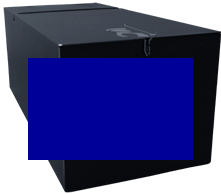
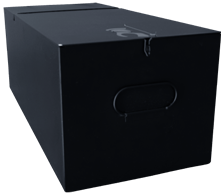
nuevas correcciones
Se cambian las imágenes de las cajas on y off, se agrega nueva sección.

diff --git a/css/app.css b/css/app.css
@@ -151,7 +151,15 @@ body{
 	width: 100%;
 	height: 76px;
 	background-color: #000;
+  padding: 0 !important;
 	/*padding-top: 11px;*/
+}
+
+#menu-titulo{
+  font-weight: bold;
+  color: #FFF;
+  margin-top: 27px;
+  letter-spacing: 10px;
 }
 
 #menu-contactanos{
@@ -368,6 +376,13 @@ body{
 
 /* galeria de imagenes
 -------------------------------------------------------------- */
+#galeriaimagenes{
+  margin-bottom: 50px;
+}
+
+#galeriaimagenes .siguiente{
+  margin-top: 110px;
+}
 
 .galeriaimagenes{
   margin-top: 50px;
@@ -396,39 +411,64 @@ body{
 }
 .planes-facilidades{
   margin-top: 75px;
-    border: solid 1px #FFF;
-    padding: 20px;
-    font-size: 14px;
-    letter-spacing: 3px;
-    color: #FFF;
+  border: solid 1px #FFF;
+  padding: 20px;
+  font-size: 14px;
+  letter-spacing: 3px;
+  color: #FFF;
 }
 
-/* mision vision
+/* nosotros
 -------------------------------------------------------------- */
 
-.misionvision{
+#nosotros{
   padding-top: 50px;
   background-color: #FFF;
   margin-top: 10px;
+  margin-bottom: 50px;
 }
 
-#misionvision .titulo{
-  margin-top: 30px;
-  font-size: 21px;
+#nosotros .titulo{
+  font-weight: bold;
+  font-size: 20px;
+  margin-bottom: 20px;
+}
+
+#nosotros .contenido{
+  font-size: 14px !important;
+  font-weight: bold !important;
+}
+
+.titulo-preguntasfrecuentes{
+  margin-top: 75px;
+  border: solid 1px #000;
+  padding: 20px;
+  font-size: 14px;
   letter-spacing: 3px;
+  color: #000;
 }
 
-#misionvision .contenido{
-  margin-top: 20px;
+#preguntasfrecuentes{
+  margin-top: 53px;
 }
 
-.botones-misionvision{
-  margin-top: 20px;
+#preguntasfrecuentes .pregunta{
+  font-weight: bold;
+  text-transform: uppercase;
+  color: #000;
+  font-size: 12px;
 }
+
+#preguntasfrecuentes .respuesta{
+  color: #000;
+  font-size: 13px;
+}
+
 
 /* alta seguridad
 -------------------------------------------------------------- */
 #altaseguridad{
+  padding-bottom: 50px;
   background-color: #000;
 }
 

diff --git a/js/main.js b/js/main.js
@@ -4,6 +4,8 @@ $(document).ready(function() {
       .foundation('reveal',{
         animation: 'none'
       });
+
+    $(document).foundation({ "magellan-expedition": { destination_threshold: 85 } });
     
     $('#my-video').backgroundVideo();
     
@@ -36,7 +38,7 @@ $(document).ready(function() {
       $(this).attr('src','media/images/icono_galeria.png');
     });
 
-    /*$('#img_personal').mouseover(function(){
+    $('#img_personal').mouseover(function(){
       $(this).attr('src','media/images/cajas_ejemplos/personal_on.png');
     });
 
@@ -66,7 +68,7 @@ $(document).ready(function() {
 
     $('#img_premium').mouseout(function(){
       $(this).attr('src','media/images/cajas_ejemplos/premium_off.png');
-    });*/
+    });
 
     $('.caja').mouseover(function(){
       $(this).find('.nombre-caja').addClass('active');
@@ -104,18 +106,20 @@ function goToSection(item){
       $('html, body').animate({ scrollTop: $("#galeriacajas").offset().top -125 }, 1200);
       break;
     case 2:
-      $('html, body').animate({ scrollTop: $("#conocenos").offset().top -76 }, 1200);
-      break;
-    case 3:
       $('html, body').animate({ scrollTop: $("#formasdepago").offset().top -76 }, 1200);
       break;
+    case 3:
+      $('html, body').animate({ scrollTop: $("#galeriaimagenes").offset().top -76 }, 1200);
+      break;
     case 4:
-      $('html, body').animate({ scrollTop: $("#misionvision").offset().top -86 }, 1200);
+      $('html, body').animate({ scrollTop: $("#altaseguridad").offset().top -76 }, 1200);
       break;
     case 5:
-      $('html, body').animate({ scrollTop: $("#footer").offset().top -76 }, 1200);
+      $('html, body').animate({ scrollTop: $("#nosotros").offset().top -86 }, 1200);
       break;
     case 6:
-      $('html, body').animate({ scrollTop: $("#galeriaimagenes").offset().top -76 }, 1200);
+      $('html, body').animate({ scrollTop: $("#footer").offset().top -76 }, 1200);
+      break;
+    
   }
 }

diff --git a/secciones/nosotros.php b/secciones/nosotros.php
@@ -1,22 +1,66 @@
-<div class="misionvision">
-	<div class="row">
-		<div class="small-6 columns small-centered text-center">
-			<div class="titulochico">SEGUMEX</div>	
-		</div>
+
+<div class="row">
+	<div class="small-6 columns small-centered text-center">
+		<div class="titulo">¿QUIÉNES SOMOS?</div>	
 	</div>
-	<div class="row">
-		<div class="small-5 columns small-centered text-center">
-			<div class="titulogrande">NOSOTROS</div>
-		</div>
-	</div>
-	<div class="row misioncontenido">
-		<div class="small-8 columns small-centered text-center contenido">
-			Lorem ipsum dolor sit amet, consectetuer adipiscing elit. Aenean commodo ligula eget dolor. Aenean massa. Cum sociis natoque penatibus et magnis dis parturient montes, nascetur ridiculus mus. Donec quam felis, ultricies nec, pellentesque eu, pretium quis, sem. Nulla consequat massa quis enim
+</div>
+
+<div class="row">
+	<div class="small-8 columns small-centered text-center">
+		<div class="contenido">
+			Somos una empresa 100% mexicana que ofrece servicio de resguardo de objetos de valor personales y de su empresa, con los más altos estándares de seguridad.
+			<br>Servicio de primera calidad, en donde lo más importante es la seguridad de nuestros clientes y sus objetos de valor.
+			<br>La única bóveda blindada en su tipo en el noroeste del país.
 		</div>
 	</div>
 </div>
+
+<div class="row">
+	<div class="small-5 columns small-centered text-center titulo-preguntasfrecuentes">
+		PREGUNTAS FRECUENTES
+	</div>
+</div>
+<div class="row">
+	<div id="preguntasfrecuentes">
+		<div id="pregunta" class="small-3 columns text-center">
+			<div class="pregunta">
+				Aquí la pregunta frecuente 1 ok ok ok
+			</div>
+			<div class="respuesta">
+				Lorem ipsum dolor sit amet, consectetuer adipiscing elit. Aenean commodo ligula eget dolor. Aenean massa
+			</div>
+		</div>
+
+		<div id="pregunta" class="small-3 columns text-center">
+			<div class="pregunta">
+				Aquí la pregunta frecuente 1 ok ok ok
+			</div>
+			<div class="respuesta">
+				Lorem ipsum dolor sit amet, consectetuer adipiscing elit. Aenean commodo ligula eget dolor. Aenean massa
+			</div>
+		</div>
+
+		<div id="pregunta" class="small-3 columns text-center">
+			<div class="pregunta">
+				Aquí la pregunta frecuente 1 ok ok ok
+			</div>
+			<div class="respuesta">
+				Lorem ipsum dolor sit amet, consectetuer adipiscing elit. Aenean commodo ligula eget dolor. Aenean massa
+			</div>
+		</div>
+
+		<div id="pregunta" class="small-3 columns text-center">
+			<div class="pregunta">
+				Aquí la pregunta frecuente 1 ok ok ok
+			</div>
+			<div class="respuesta">
+				Lorem ipsum dolor sit amet, consectetuer adipiscing elit. Aenean commodo ligula eget dolor. Aenean massa
+			</div>
+		</div>		
+	</div>
+</div>
 <div class="row text-center siguiente">
-	<a href="javascript:goToSection(5)" >
+	<a href="javascript:goToSection(6)" >
 		<img src="media/images/icono_flecha-abajo-negra.png" alt="">
 	</a>
 </div>

diff --git a/secciones/galeriaimagenes.php b/secciones/galeriaimagenes.php
@@ -1,0 +1,34 @@
+<!--
+<div class="row">
+	<div class="small-6 columns small-centered text-center">
+		<div class="titulochico">CONOCENOS</div>	
+	</div>
+</div>
+
+<div class="row">
+	<div class="small-4 columns small-centered text-center">
+		<div class="titulogrande">GALERIA</div>
+	</div>
+</div>
+-->
+<div class="galeria-imagenes">
+	<div class="row galeriaimagenes">
+		<div class="small-10 columns small-centered text-center">
+			<div class="camera_wrap">
+				<div data-thumb="media/images/galeria_imagenes/thumbs/galeria_1.jpg" data-src="media/images/galeria_imagenes/galeria_1.jpg"></div>
+				<div data-thumb="media/images/galeria_imagenes/thumbs/galeria_2.jpg" data-src="media/images/galeria_imagenes/galeria_2.jpg"></div>
+				<div data-thumb="media/images/galeria_imagenes/thumbs/galeria_3.jpg" data-src="media/images/galeria_imagenes/galeria_3.jpg"></div>
+				<div data-thumb="media/images/galeria_imagenes/thumbs/galeria_4.jpg" data-src="media/images/galeria_imagenes/galeria_4.jpg"></div>
+				<div data-thumb="media/images/galeria_imagenes/thumbs/galeria_5.jpg" data-src="media/images/galeria_imagenes/galeria_5.jpg"></div>
+				<div data-thumb="media/images/galeria_imagenes/thumbs/galeria_6.jpg" data-src="media/images/galeria_imagenes/galeria_6.jpg"></div>
+				<div data-thumb="media/images/galeria_imagenes/thumbs/galeria_7.jpg" data-src="media/images/galeria_imagenes/galeria_7.jpg"></div>
+			</div>
+		</div>
+	</div>
+
+	<div class="row text-center siguiente">
+		<a href="javascript:goToSection(4)" >
+			<img src="media/images/icono_flecha-abajo-negra.png" alt="">
+		</a>
+	</div>
+</div>

diff --git a/secciones/menulateral.php b/secciones/menulateral.php
@@ -3,11 +3,11 @@
   <ul class="c-menu__items">
     <li class="c-menu__item"><a href="javascript:goToSection(0)" class="c-menu__link">INICIO</a></li>
     <li class="c-menu__item"><a href="javascript:goToSection(1)" class="c-menu__link">TIPOS DE CAJAS</a></li>
-    <li class="c-menu__item"><a href="javascript:goToSection(2)" class="c-menu__link">CONÓCENOS</a></li>
-    <li class="c-menu__item"><a href="javascript:goToSection(6)" class="c-menu__link">GALERÍA</a></li>
-    <li class="c-menu__item"><a href="javascript:goToSection(3)" class="c-menu__link">FORMAS DE PAGO</a></li>
-    <li class="c-menu__item"><a href="javascript:goToSection(4)" class="c-menu__link">MISIÓN Y VISIÓN</a></li>
-    <li class="c-menu__item"><a href="javascript:goToSection(5)" class="c-menu__link">CONTÁCTANOS</a></li>
+    <li class="c-menu__item"><a href="javascript:goToSection(2)" class="c-menu__link">FORMAS DE PAGO</a></li>
+    <li class="c-menu__item"><a href="javascript:goToSection(3)" class="c-menu__link">GALERÍA DE IMÁGENES</a></li>
+    <li class="c-menu__item"><a href="javascript:goToSection(4)" class="c-menu__link">ALTA SEGURIDAD</a></li>
+    <li class="c-menu__item"><a href="javascript:goToSection(5)" class="c-menu__link">NOSOTROS</a></li>
+    <li class="c-menu__item"><a href="javascript:goToSection(6)" class="c-menu__link">CONTÁCTANOS</a></li>
   </ul>
 </nav><!-- /c-menu slide-right -->
 

diff --git a/secciones/headermenu.php b/secciones/headermenu.php
@@ -1,12 +1,16 @@
+
 <div class="top-menu" data-magellan-expedition="fixed">
 	<nav>
 		<div class="small-3 columns">
 			<img src="media/images/logo_horizontal.png" alt="">
 		</div>
-		<div class="small-6 columns text-center" id="menu-contactanos">
-			<a href="javascript:goToSection(5)" ><span>CONTÁCTANOS</span></a>
+		<div class="small-6 columns text-center" id="menu-titulo">
+			TITULO AQUI
 		</div>
-		<div class="small-3 columns text-right" id="menu-bar">
+		<div class="small-2 columns text-center" id="menu-contactanos">
+			<a href="javascript:goToSection(6)" ><span>CONTÁCTANOS</span></a>
+		</div>
+		<div class="small-1 columns text-right" id="menu-bar">
 			<a href="javascript:void" class="button radius nav-togle" id="c-button--slide-right">
 				<span class="icon-bar"></span>
 				<span class="icon-bar"></span>

diff --git a/index.php b/index.php
@@ -27,19 +27,23 @@
 	<section id="galeriacajas">
 		<?php include("secciones/galeriacajas.php"); ?> 
 	</section>
-	
-	<section id="conocenos">
-		<?php include("secciones/conocenos.php"); ?> 
-	</section>
 
 	<section id="formasdepago">
 		<?php include("secciones/formasdepago.php"); ?> 
+	</section>
+	
+	<section id="galeriaimagenes">
+		<?php include("secciones/galeriaimagenes.php"); ?>
 	</section>
 
 	<section id="altaseguridad">
 		<?php include("secciones/altaseguridad.php"); ?> 
 	</section>
 
+	<section id="nosotros">
+		<?php include("secciones/nosotros.php") ?>
+	</section>
+	
 	<section id="footer">
 		<?php include("secciones/footer.php"); ?> 
 	</section>

diff --git a/secciones/altaseguridad.php b/secciones/altaseguridad.php
@@ -62,7 +62,7 @@
 	</div>
 </div>
 <div class="row text-center siguiente">
-	<a href="javascript:goToSection(4)" >
+	<a href="javascript:goToSection(5)" >
 		<img src="media/images/icono_flecha-abajo.png" alt="">
 	</a>
 </div>

diff --git a/secciones/formasdepago.php b/secciones/formasdepago.php
@@ -54,7 +54,7 @@
 	</div>
 </div>
 <div class="row text-center siguiente">
-	<a href="javascript:goToSection(4)" >
+	<a href="javascript:goToSection(3)" >
 		<img src="media/images/icono_flecha-abajo.png" alt="">
 	</a>
 </div>

diff --git a/secciones/conocenos.php b/secciones/conocenos.php
@@ -43,6 +43,3 @@
 	</div>
 </div>
 
-<div id="galeriaimagenes" class="galeria-imagenes">
-	<?php include("galeriaimagenes.php"); ?>
-</div>
